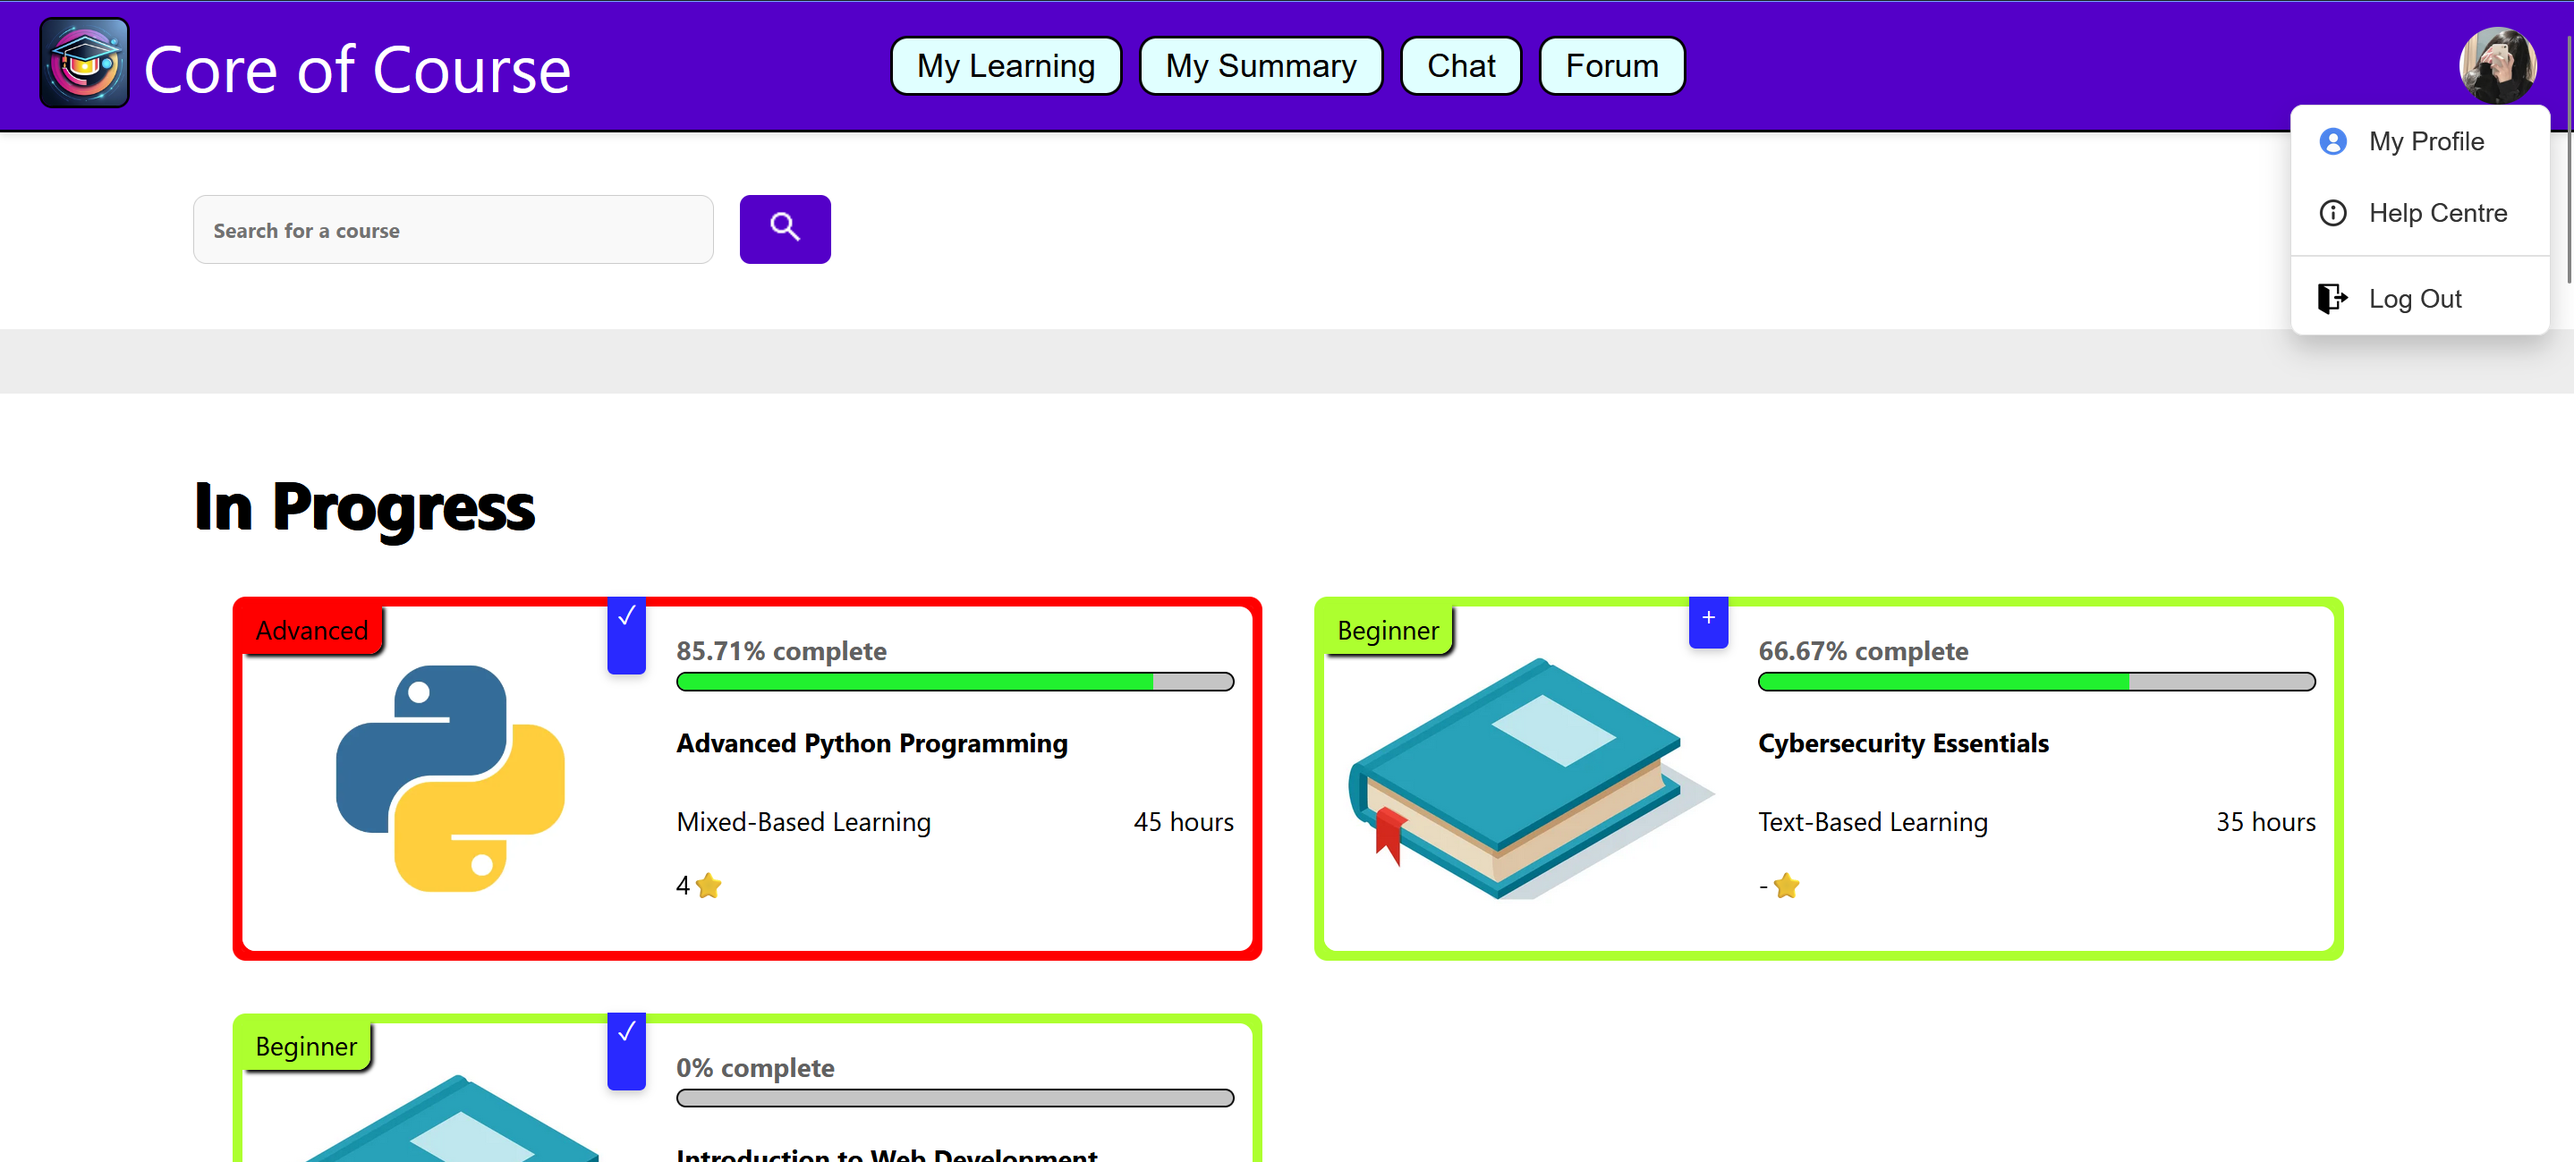
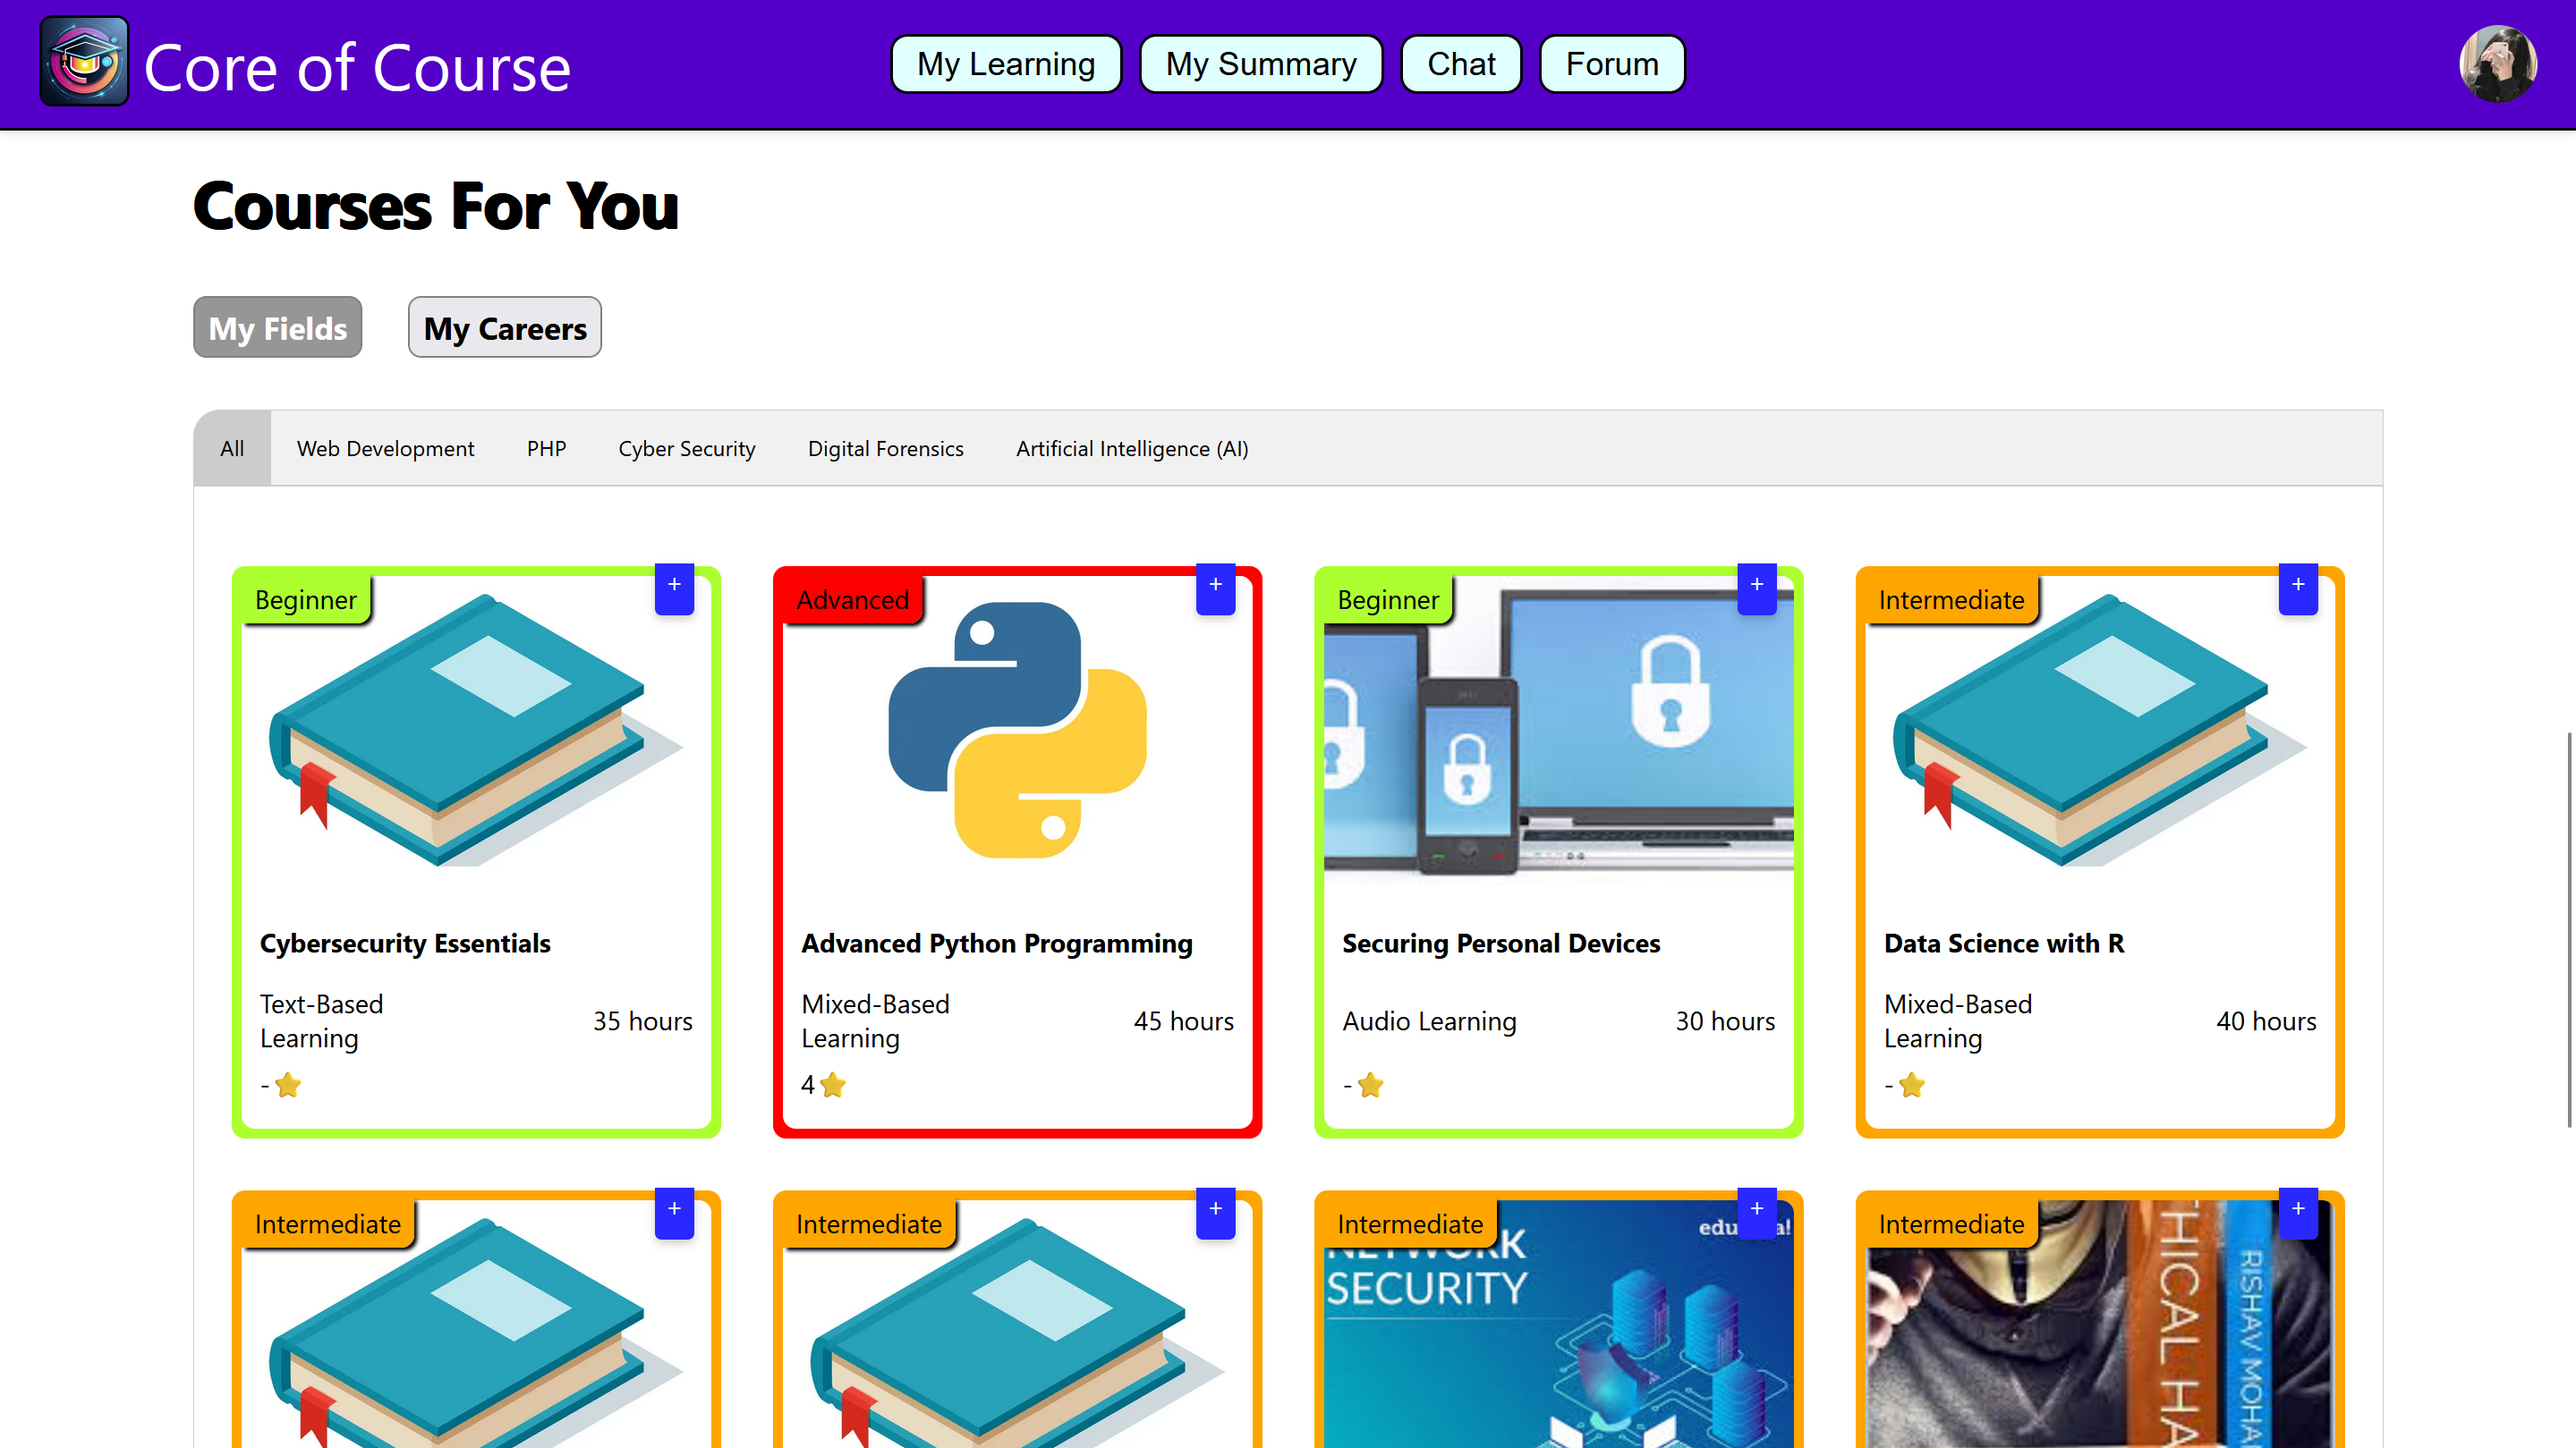
added certifications

diff --git a/achievements.html b/achievements.html
@@ -3,10 +3,10 @@
 <head>
   <meta charset="UTF-8">
   <meta name="viewport" content="width=device-width, initial-scale=1.0">
-  <title>Achievements | Alex Carter</title>
+  <title>Achievements | Guo Hao Khoo</title>
   <meta
     name="description"
-    content="Portfolio achievements page template with recognitions, milestones, certifications, and notable moments."
+    content="Guo Hao Khoo's portfolio achievements page with recognitions, milestones, certifications, and notable moments."
   >
   <link rel="preconnect" href="https://fonts.googleapis.com">
   <link rel="preconnect" href="https://fonts.gstatic.com" crossorigin>
@@ -15,13 +15,22 @@
     rel="stylesheet"
   >
   <link rel="stylesheet" href="styles.css">
+  <style>
+    .media-photo {
+      padding: 0.4rem;
+    }
+
+    img {
+      border-radius: 14px;
+    }
+  </style>
 </head>
 <body data-page="achievements">
   <div class="site-shell">
     <header class="topbar">
       <a class="brand" href="index.html">
-        <span class="brand-mark">AC</span>
-        <span class="brand-text">Alex Carter</span>
+        <span class="brand-mark">GH</span>
+        <span class="brand-text">Guo Hao Khoo</span>
       </a>
       <button class="nav-toggle" aria-expanded="false" aria-controls="site-nav">
         <span></span>
@@ -38,81 +47,108 @@
       <section class="page-hero section">
         <div>
           <p class="eyebrow">Achievements</p>
-          <h1>Present recognitions, certifications, and standout milestones</h1>
+          <h1>My recognitions, certifications, and standout milestones</h1>
         </div>
         <p class="hero-text">
-          This page is built to hold awards, competition wins, speaking invitations, academic honors,
-          scholarships, press mentions, or any career milestone you want to spotlight.
+          I will spotlight my relevant or notable awards, competition wins, academic honors,
+          scholarships, press mentions, or career milestone.
         </p>
       </section>
 
-      <section class="section achievements-layout">
-        <article class="achievement-feature">
-          <p class="card-label">Featured highlight</p>
-          <h2>Global Design Excellence Award</h2>
-          <p>
-            Write a short narrative about your biggest recognition here, including who awarded it,
-            why it mattered, and the project or contribution it recognized.
-          </p>
-          <div class="achievement-badge">2025</div>
-        </article>
-
-        <div class="achievement-list">
-          <article class="achievement-item">
-            <span>2025</span>
-            <div>
-              <h3>Top 30 Under 30 Creative Talent</h3>
-              <p>Add a short description, publication name, and why this moment is meaningful.</p>
-            </div>
-          </article>
-          <article class="achievement-item">
-            <span>2024</span>
-            <div>
-              <h3>Speaker at Placeholder Conference</h3>
-              <p>Use this slot for talks, panels, workshops, mentoring programs, or guest lectures.</p>
-            </div>
-          </article>
-          <article class="achievement-item">
-            <span>2023</span>
-            <div>
-              <h3>Advanced Certification in Product Leadership</h3>
-              <p>Perfect for certificates, licenses, courses, and continuing education achievements.</p>
-            </div>
-          </article>
-          <article class="achievement-item">
-            <span>2022</span>
-            <div>
-              <h3>Competition Winner / Scholarship Recipient</h3>
-              <p>Highlight grants, scholarships, hackathon wins, or juried exhibition selections.</p>
-            </div>
-          </article>
-        </div>
-      </section>
-
-      <section class="section">
+      <section class="section achievement-category">
         <div class="section-heading">
-          <p class="eyebrow">Press and proof</p>
-          <h2>Add supporting media or references for each milestone</h2>
+          <p class="eyebrow">Certifications</p>
+          <h2>Verified credentials and skill certificates</h2>
         </div>
-        <div class="card-grid">
-          <article class="feature-card">
-            <h3>Article / Press mention</h3>
-            <p>Insert publication title, link, quote, and a short explanation of the context.</p>
+        <div class="achievement-grid">
+          <article class="achievement-card">
+            <div class="achievement-card-media media-photo"><img src="images/cert-CCNA_SWRE.png" alt="CCNA: Switching, Routing, and Wireless Essentials Completion Certificate"></div>
+            <div class="achievement-card-copy">
+              <p class="eyebrow">2026 - Course Completion Certificate</p>
+              <h3>CCNA: Switching, Routing, and Wireless Essentials</h3>
+              <p>Completed CCNA Level 2 course covering strategy VLANs, Inter-VLAN routing, layer 3 static and dynamic routing, redundancy using STP and EtherChannel, dynamic addressing, FHRP, WLAN using WLC and LAP, L2 security practices, switch security to mitigate LAN attacks.</p>
+              <a style="color: blue;" href="https://www.credly.com/badges/118bf788-6720-44a3-bd92-08a8d5cfb56e/public_url" target="_blank"><u>Details of Certificate/Badge - Credly</u></a>
+            </div>
+            <a href=""></a>
           </article>
-          <article class="feature-card">
-            <h3>Certificate / Award image</h3>
-            <p>Place a certificate image, trophy photo, or event highlight here.</p>
+
+          <article class="achievement-card">
+            <div class="achievement-card-media media-photo"><img src="images/cert-redHatSA1.png" alt="Red Hat System Administration I (RH124 - RHA) - Ver. 9.3 Completion Certificate"></div>
+            <div class="achievement-card-copy">
+              <p class="eyebrow">2026 - Course Completion Certificate</p>
+              <h3>Red Hat System Administration I (RH124 - RHA) - Ver. 9.3</h3>
+              <p>Learned Linux fundamentals (open source, RHEL), CLI & Bash, file management, permissions, users/groups, processes & services, SSH security, networking, package management (DNF/RPM), file systems, and system monitoring/troubleshooting.</p>
+              <a style="color: blue;" href="https://www.credly.com/badges/b0ff263b-31b1-4ca2-adba-b1248324cfaf/public_url" target="_blank"><u>Details of Certificate/Badge - Credly</u></a>
+            </div>
           </article>
-          <article class="feature-card">
-            <h3>Video / Event recording</h3>
-            <p>Use this area for ceremony clips, talk recordings, or acceptance moments.</p>
+
+          <article class="achievement-card">
+            <div class="achievement-card-media media-photo"><img src="images/cert-CCNA_IntroToNetworks.png" alt="CCNA: Introduction to Networks Completion Certificate"></div>
+            <div class="achievement-card-copy">
+              <p class="eyebrow">2025 - Course Completion Certificate</p>
+              <h3>CCNA: Introduction to Networks</h3>
+              <p>Completed CCNA Level 1 course covering switches and end devices configurations, OSI and TCP/IP model, physical and data link layer protocols supporting Ethernet, router configurations for remote device connectivity, IPv4 & IPv6 addressing schemes, connectivity verification, best security practices for small networks, and troubleshooting</p>
+              <a style="color: blue;" href="https://www.credly.com/badges/7694b6a7-3183-472b-a73d-2da19ff51867/public_url" target="_blank"><u>Details of Certificate/Badge - Credly</u></a>
+            </div>
           </article>
         </div>
       </section>
+
+      <!-- <section class="section achievement-category">
+        <div class="section-heading">
+          <p class="eyebrow">Competition wins</p>
+          <h2>Rankings, awards, and notable placements</h2>
+        </div>
+        <div class="achievement-grid">
+          <article class="achievement-card">
+            <div class="achievement-card-media media-photo"><span>Winner</span></div>
+            <div class="achievement-card-copy">
+              <p class="eyebrow">2025</p>
+              <h3>Global Design Excellence Award</h3>
+              <p>First place for product interface innovation in a multinational design competition.</p>
+            </div>
+          </article>
+
+          <article class="achievement-card">
+            <div class="achievement-card-media media-video"><span>Top 5</span></div>
+            <div class="achievement-card-copy">
+              <p class="eyebrow">2024</p>
+              <h3>National FinTech Hackathon Finalist</h3>
+              <p>Recognized for a finance app that improved access to sustainability insights.</p>
+            </div>
+          </article>
+        </div>
+      </section>
+
+      <section class="section achievement-category">
+        <div class="section-heading">
+          <p class="eyebrow">Notable results</p>
+          <h2>Milestones, press, and recognition</h2>
+        </div>
+        <div class="achievement-grid">
+          <article class="achievement-card">
+            <div class="achievement-card-media media-gallery"><span>Feature</span></div>
+            <div class="achievement-card-copy">
+              <p class="eyebrow">2023</p>
+              <h3>Top 30 Under 30 Creative Talent</h3>
+              <p>Selected among emerging leaders for creative strategy, mentorship, and interdisciplinary work.</p>
+            </div>
+          </article>
+
+          <article class="achievement-card">
+            <div class="achievement-card-media media-photo"><span>Scholarship</span></div>
+            <div class="achievement-card-copy">
+              <p class="eyebrow">2022</p>
+              <h3>Design Research Scholarship</h3>
+              <p>Awarded funding to pursue a project on inclusive digital experiences and student mentorship.</p>
+            </div>
+          </article>
+        </div>
+      </section> -->
     </main>
 
     <footer class="footer">
-      <p>Use dates, visuals, and short explanations to make your achievements feel credible and memorable.</p>
+      <p>My Certificates (More sections to be added when I am free)</p>
     </footer>
   </div>
 

diff --git a/projects.html b/projects.html
@@ -116,7 +116,7 @@
           </article>
 
           <article class="project-card" data-category="web/software">
-            <div class="media-block media-photo"><img src="images/cocDashboard.png" alt="'Clash of Courses' - Dashboard"></div>
+            <div class="media-block media-photo"><img src="images/cocDashboard.png" alt="'Clash of Courses' Website - Dashboard"></div>
             <div class="project-copy">
               <p class="card-label">Web/Software</p>
               <h2>Personalized Online Course Web Application</h2>
@@ -127,6 +127,22 @@
                 <li>Highlights: Customized course recommendation algorithm, chat and forum functions</li>
                 <li>Role: Full-Stack Developer/Project Leader</li>
                 <li>Backend: PHP + MySQL (XAMPP)</li>
+              </ul>
+            </div>
+          </article>
+
+          <article class="project-card" data-category="web/software">
+            <div class="media-block media-photo"><img src="images/javaProjectThumbnail.png" alt="Development - Java Program"></div>
+            <div class="project-copy">
+              <p class="card-label">Web/Software</p>
+              <h2>Interactive Assessment Feedback System</h2>
+              <p>
+                A software that allows lecturers to manage score and feedback according to the subject assessments, deliver it to students timely, auto-grading based on marks allocation, and produce feedback reports.
+              </p>
+              <ul class="meta-list">
+                <li>Highlights: Fully implemented bject-oriented programming</li>
+                <li>IDE: Apache NetBeans for drag-and-drop GUI</li>
+                <li>Role: System Designer/System IO Backend & Lecturer Functions Developer</li>
               </ul>
             </div>
           </article>

diff --git a/styles.css b/styles.css
@@ -522,6 +522,63 @@ p {
   color: var(--accent-deep);
 }
 
+.achievement-category {
+  display: grid;
+  gap: 1.5rem;
+}
+
+.achievement-grid {
+  display: grid;
+  gap: 1.25rem;
+}
+
+.achievement-card {
+  display: grid;
+  grid-template-columns: minmax(140px, 180px) 1fr;
+  gap: 1rem;
+  align-items: center;
+  padding: 1.4rem;
+  border: 1px solid var(--line);
+  border-radius: var(--radius-lg);
+  background: var(--paper);
+  box-shadow: var(--shadow);
+  backdrop-filter: blur(12px);
+}
+
+.achievement-card-media {
+  display: grid;
+  place-items: center;
+  min-height: 140px;
+  padding: 1rem;
+  border-radius: var(--radius-md);
+  background: linear-gradient(135deg, rgba(195, 95, 51, 0.16), rgba(241, 194, 155, 0.88));
+  color: rgba(33, 23, 18, 0.8);
+  font-weight: 700;
+  letter-spacing: 0.08em;
+  text-transform: uppercase;
+  text-align: center;
+}
+
+.achievement-card-media span {
+  max-width: 100%;
+}
+
+.achievement-card-copy {
+  display: grid;
+  gap: 0.75rem;
+}
+
+.achievement-card-copy .eyebrow {
+  margin-bottom: 0;
+}
+
+.achievement-meta {
+  margin-top: 0.75rem;
+  color: var(--accent-deep);
+  font-size: 0.95rem;
+  font-weight: 700;
+}
+
 .feature-card {
   padding: 1.4rem;
 }
@@ -536,6 +593,7 @@ p {
   .card-grid,
   .project-grid,
   .achievements-layout,
+  .achievement-card,
   .contact-panel {
     grid-template-columns: 1fr;
   }
